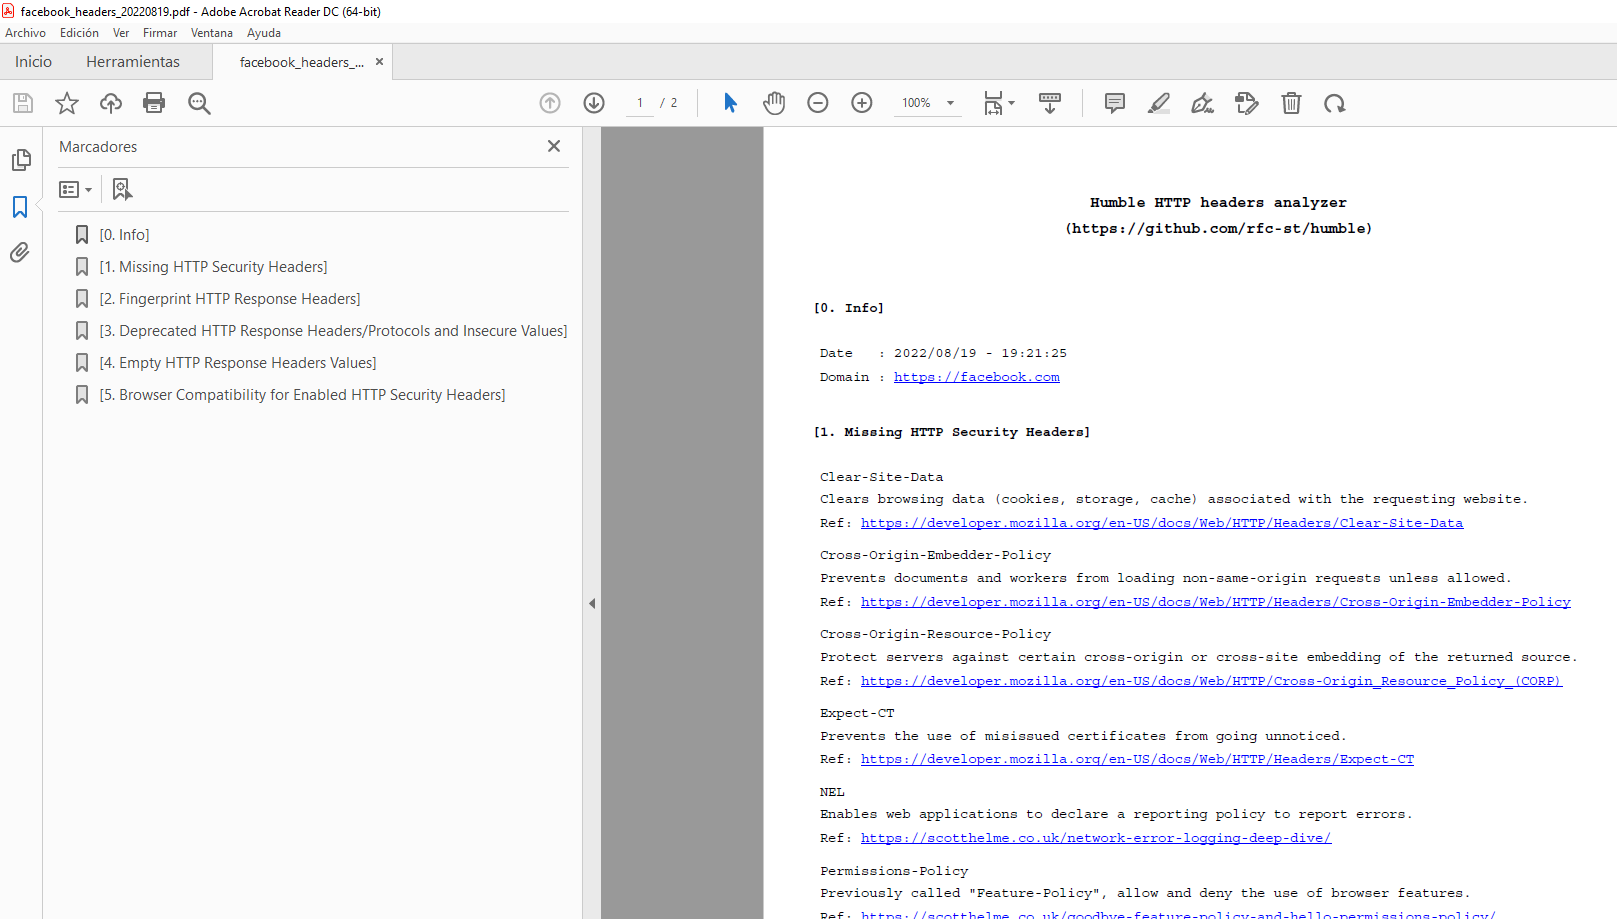
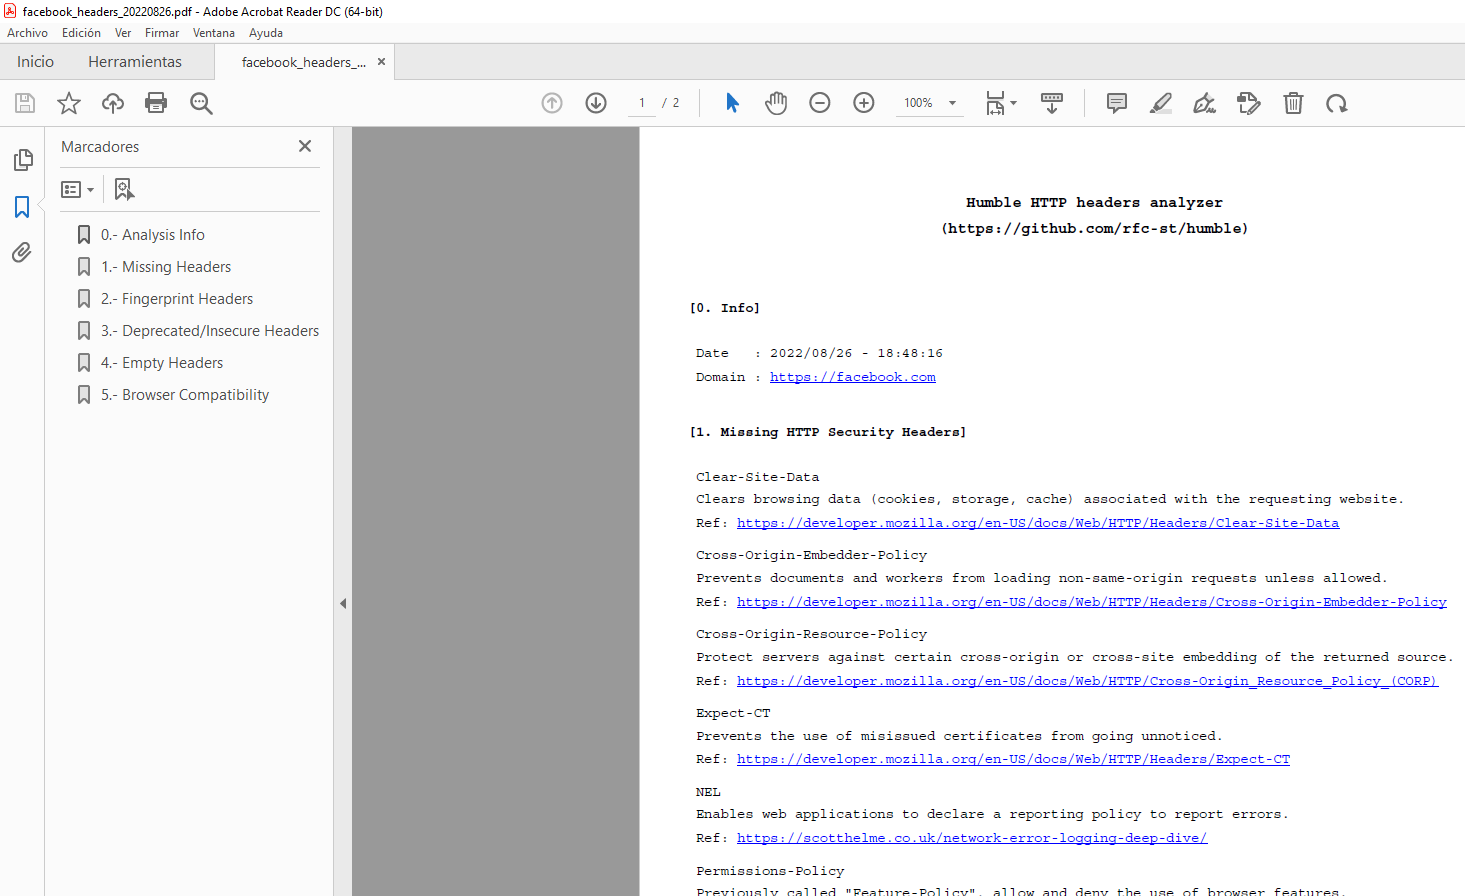
Update PDF sample and screenshot.

Changed region(s): [[0.0, 0.0, 0.9829, 1.0], [0.6451, 0.2188, 0.8601, 0.2812]]

diff --git a/README.md b/README.md
@@ -72,7 +72,7 @@ HTTP Headers Analyzer<br />
 <img src="https://github.com/rfc-st/humble/blob/master/screenshots/humble.PNG" alt="Full analysis" width=70% height=70%>
 </p>
 <br />
-.: Analysis exported to PDF. <a href="https://github.com/rfc-st/humble/raw/master/samples/facebook_headers_20220819.pdf">Example.</a><br />
+.: Analysis exported to PDF. <a href="https://github.com/rfc-st/humble/raw/master/samples/facebook_headers_20220826.pdf">Example.</a><br />
 <p></p>
 <p align="center">
 <img src="https://github.com/rfc-st/humble/blob/master/screenshots/humble_pdf_s.PNG" alt="Export analysis to PDF" width=70% height=70%>
